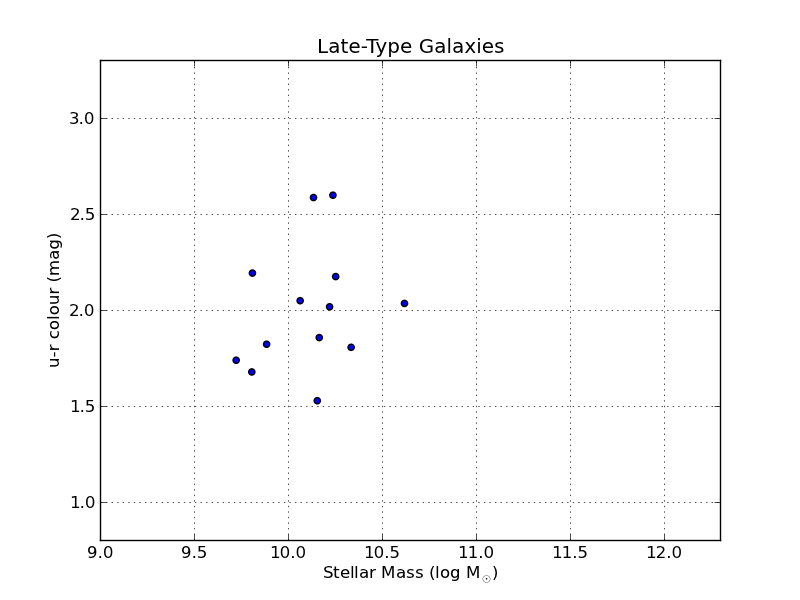
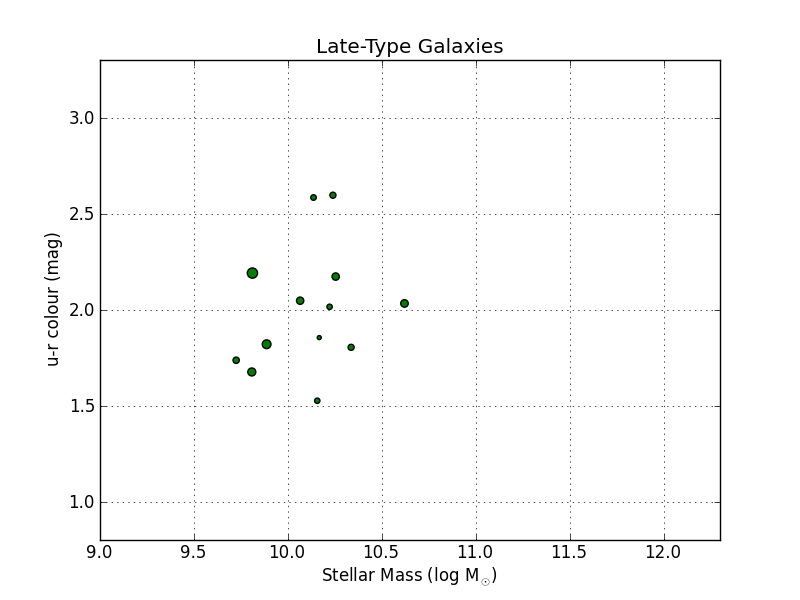
Checked for errors, made suggestions. Plural for class name seems appropriate!

diff --git a/examples/bulgelessdisks.py b/examples/bulgelessdisks.py
@@ -27,8 +27,16 @@ agnbolometricluminosity = bulgelessdisks_array[:,4]
 # ----------------------------------------------------------------------
 # Prepare the data
 
-# Instantiate the Galtoons class
-mytoons = toons.Galtoon()
+# Instantiate a Galtoons object:
+# PJM: how about something like the following initialisation instead?
+# mycoords = {'x':x, 'y':y, 'ra':ra, 'dec':dec} etc
+# mybulges = {'mass':bulgemass, 'colour':urcolour}
+# mytoons = toons.Galtoons(bulges=mybulges,disks=None,halos=None)
+# Dictionaries are nice because you can reference them by the name of a parameter.
+# Its a choice whether you do all this parsing of the data outside the galtoons
+# class or inside...
+
+mytoons = toons.Galtoons()
 print mytoons.hello
 mytoons.pleasework()
 
@@ -40,13 +48,22 @@ bulgemass = numpy.multiply(bulgetototal, massstellar)
 areabulgemass = 100 * mytoons.normarea(bulgemass) # 'numpy.float64' object is not callable
 
 # ----------------------------------------------------------------------
-# Create the plot
-
-# Plot u-r vs stellar mass
+# Create the u-r vs stellar mass plot:
 ax=plt.subplot(111)
+
+# Realize the galtoons!
+# PJM: perhaps aim for a command like the following?
+#   mytoons.scatterplot(massstellar, urcolour)
+# where the two arguments are the x,y positions of the galtoons?
+# This is not ideal either, because the galtoons should know where they are 
+# in parameter space! You could initialise the galtoons with bulge, disk and 
+# halo properties, in dictionaries, but then internally make composite properties
+# like stellarmass and colour, which you could then call as follows:
+#   mytoons.scatterplot('stellarmass', 'colour')
+
 ax.scatter(massstellar, urcolour, s=areabulgemass, c='g')
 
-# Make the plot nice
+# Make the plot nice:
 ax.set_xlim(9.0,12.3)
 ax.set_ylim(0.8,3.3)
 plt.xlabel(r'Stellar Mass (log M$_{\odot}$)')
@@ -54,7 +71,7 @@ plt.ylabel('u-r colour (mag)')
 plt.title('Late-Type Galaxies')
 plt.grid(True)
 
-# Save the plot and tell user what it's called
+# Save the plot and tell user what it's called:
 savedfile = "testbulgelessdisks.png"
 plt.savefig(savedfile)
 print "Plot saved as "+os.getcwd()+"/"+savedfile 

diff --git a/toons/galtoons.py b/toons/galtoons.py
@@ -1,28 +1,25 @@
-# Header documentation goes here!
-
-# Licence information goes here!
-
 # ======================================================================
 
 import numpy as np
 import pylab as plt
 from matplotlib.patches import Ellipse as disk
-from matplotlib.patches import Circle as bulge
+from matplotlib.patches import Circle as bulge 
  
+# PJM: I think we will want to represent both bulges and disks as ellipses...
+
 # ======================================================================
 
-class Galtoon(object):
+class Galtoons(object):
     """
     NAME
-        Galtoon
+        Galtoons
 
     PURPOSE
-        Creates representative galaxy patches.
+        Represent galaxy data as a set of matplotlib patches. 
 
     COMMENTS
 
     INITIALISATION
-        From scratch?
     
     METHODS AND VARIABLES
         
@@ -30,6 +27,9 @@ class Galtoon(object):
 
     AUTHORS
         Charlotte A. Mason (UCSB)
+
+    LICENSE
+        GPLv2
 
     HISTORY
       2013-07-18  Started (C Mason)
@@ -50,6 +50,7 @@ class Galtoon(object):
 # 'area' will be the area of the toon
     def normarea(self,mydisk):
         
+        print mydisk
         unitarea = np.linalg.norm(mydisk)
         print unitarea      # 'numpy.float64' object is not callable
         area = mydisk/unitarea   
